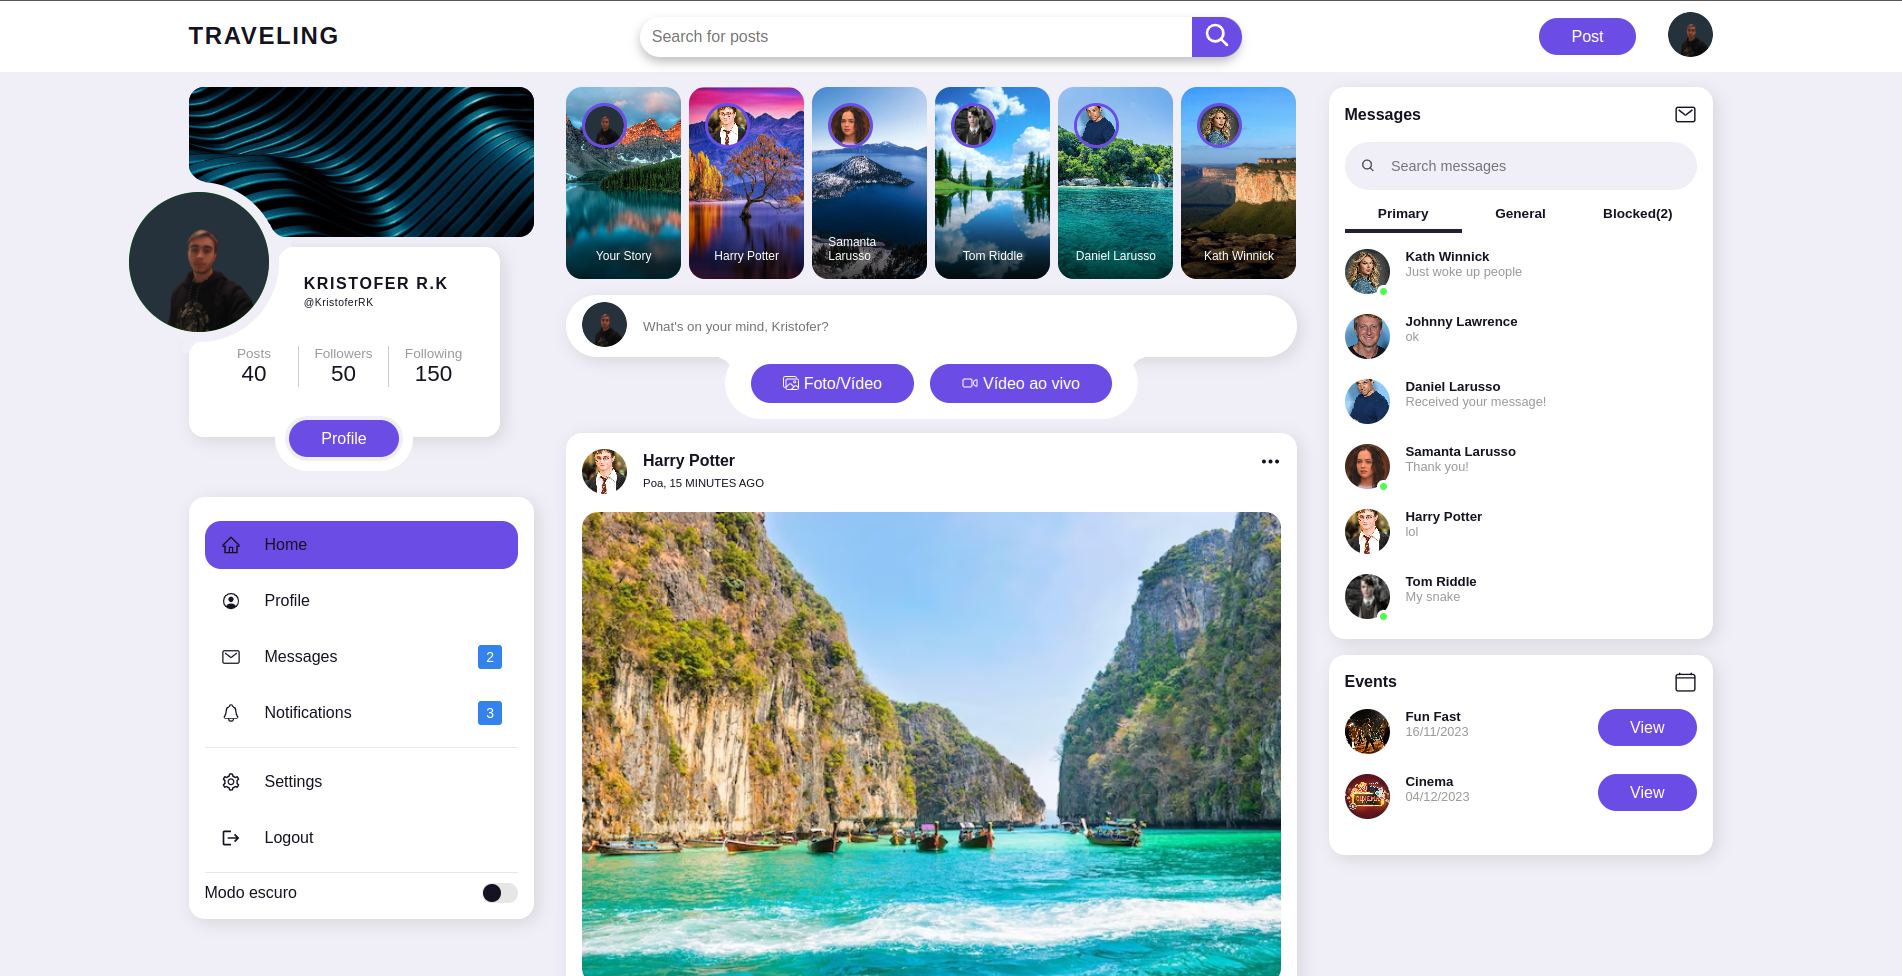
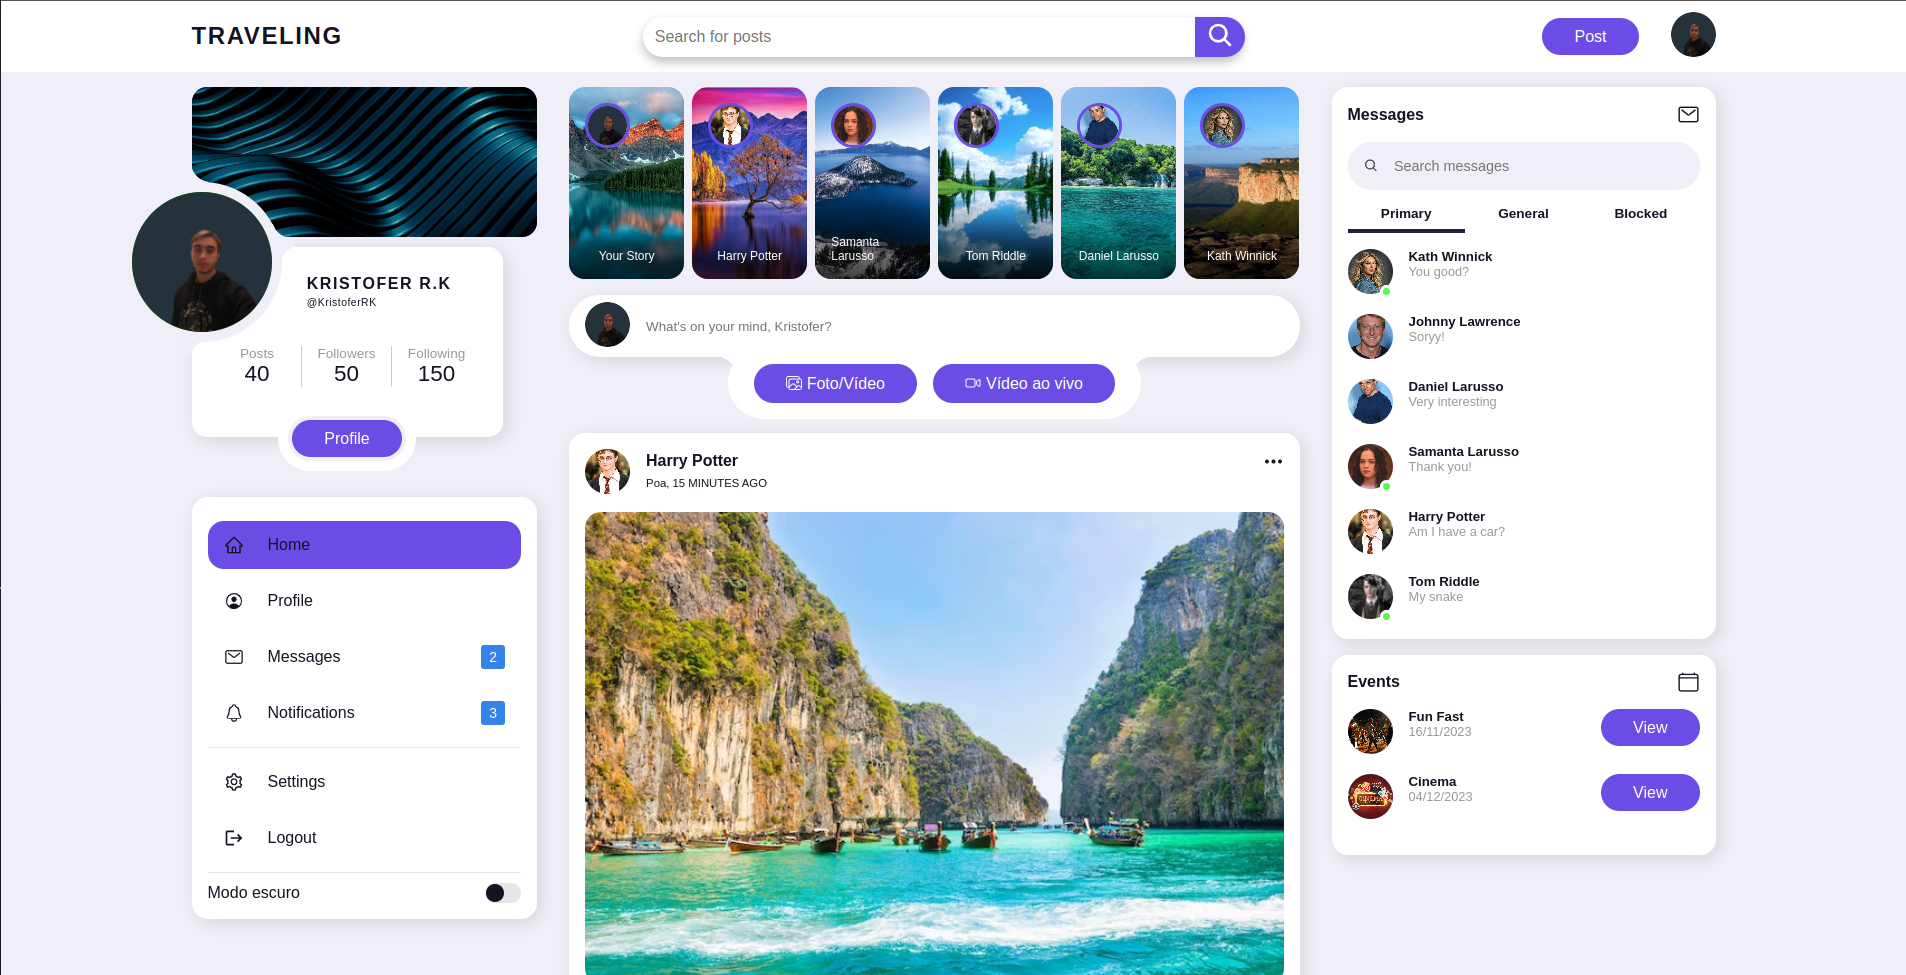
images fix

diff --git a/src/Controllers/ControllerMessages/index.jsx b/src/Controllers/ControllerMessages/index.jsx
@@ -17,21 +17,21 @@ export default function ControllerMessages({ type }) {
 			photo:
 				"https://claudia.abril.com.br/wp-content/uploads/2021/08/EMBARGOED-Star-Big-Sky-Katheryn-Winnick-como-Jenny-Hoyt-1.jpg?quality=85&strip=info",
 			name: "Kath Winnick",
-			message: ["Hello!", "Bye", "Just woke up people"],
+			message: ["Hello!", "Bye", "You good?"],
 			online: true,
 		},
 		{
 			photo:
[1 lines of base64/hex data omitted]
 			name: "Johnny Lawrence",
-			message: ["Hello!", "Bye", "ok"],
+			message: ["Hello!", "Bye", "Soryy!"],
 			online: false,
 		},
 		{
 			photo:
 				"https://upload.wikimedia.org/wikipedia/commons/3/3a/Ralph_Macchio_Photo_Op_GalaxyCon_Richmond_2019.jpg",
 			name: "Daniel Larusso",
-			message: ["Hello!", "Bye", "Received your message!"],
+			message: ["Hello!", "Bye", "Very interesting"],
 			online: false,
 		},
 		{
@@ -44,7 +44,7 @@ export default function ControllerMessages({ type }) {
 			photo:
 				"https://p2.trrsf.com/image/fget/cf/1200/1600/middle/images.terra.com/2023/04/14/594335823-harry-potter.jpg",
 			name: "Harry Potter",
-			message: ["Hello!", "Bye", "lol"],
+			message: ["Hello!", "Bye", "Am I have a car?"],
 			online: false,
 		},
 		{

diff --git a/src/components/Feeds/index.jsx b/src/components/Feeds/index.jsx
@@ -42,17 +42,17 @@ export default function Feeds() {
 	}
 	const [posts, setPosts] = useState([
 		{
+			userPhoto: Kris,
+			photo:
+				"https://escolaeducacao.com.br/wp-content/uploads/2019/07/praias-Praia-de-Taipu-de-Fora-Pen%C3%ADnsula-de-Mara%C3%BA-Bahia-12.jpg",
+			userName: "Kristofer Krindges",
+		},
+		{
 			userPhoto:
 				"https://p2.trrsf.com/image/fget/cf/1200/1600/middle/images.terra.com/2023/04/14/594335823-harry-potter.jpg",
 			photo:
 				"https://img.freepik.com/fotos-premium/panorama-da-ilha-de-phi-phi_104337-9599.jpg",
 			userName: "Harry Potter",
-		},
-		{
-			userPhoto: Kris,
-			photo:
-				"https://escolaeducacao.com.br/wp-content/uploads/2019/07/praias-Praia-de-Taipu-de-Fora-Pen%C3%ADnsula-de-Mara%C3%BA-Bahia-12.jpg",
-			userName: "Kristofer Krindges",
 		},
 		{
 			userPhoto:

diff --git a/src/components/SelectOptions/index.jsx b/src/components/SelectOptions/index.jsx
@@ -154,7 +154,7 @@ export default function SelectOptions({ type }) {
 						General
 					</Posts>
 					<Posts className={activeRequests} onClick={handlerActiveRequests}>
-						Blocked(2)
+						Blocked
 					</Posts>
 				</Category>
 			) : (
